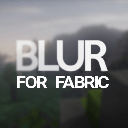
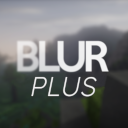
Final changes before 5.0.0

Changed region(s): [[0.125, 0.3125, 0.875, 0.7812], [0.7812, 0.4688, 0.875, 0.5625], [0.75, 0.4688, 0.7812, 0.5]]

diff --git a/fabric/src/main/java/eu/midnightdust/blur/fabric/BlurFabric.java b/fabric/src/main/java/eu/midnightdust/blur/fabric/BlurFabric.java
@@ -3,12 +3,16 @@ package eu.midnightdust.blur.fabric;
 import eu.midnightdust.blur.Blur;
 import eu.midnightdust.blur.util.RainbowColor;
 import net.fabricmc.api.ClientModInitializer;
+import net.fabricmc.api.ModInitializer;
 import net.fabricmc.fabric.api.client.event.lifecycle.v1.ClientTickEvents;
 
-public class BlurFabric implements ClientModInitializer {
+public class BlurFabric implements ModInitializer, ClientModInitializer {
+    @Override
+    public void onInitialize() {
+        Blur.init();
+    }
     @Override
     public void onInitializeClient() {
-        Blur.init();
         ClientTickEvents.END_CLIENT_TICK.register(client -> RainbowColor.tick());
     }
 }

diff --git a/README.md b/README.md
@@ -4,6 +4,6 @@ Ever thought that the world behind your inventory was just too distracting?
 Or that the default Minecraft blur effect is just too boring?  
 Then this mod is just right for you!
 
-![Image showing the Minecraft inventory with a blur effect in the background](https://cdn.modrinth.com/data/NK39zBp2/images/d4fc980a14be51af7007af02949fda280be305ce.png)
+![Image showing the Minecraft inventory with a blur effect in the background](https://cdn.modrinth.com/data/NK39zBp2/images/213f18fcf3d6c55cad164077d569e2f0339551da.webp)
 
-Download now on [Modrinth](https://modrinth.com/mod/blur-fabric)
+Download now on [Modrinth](https://modrinth.com/mod/blur-plus)
